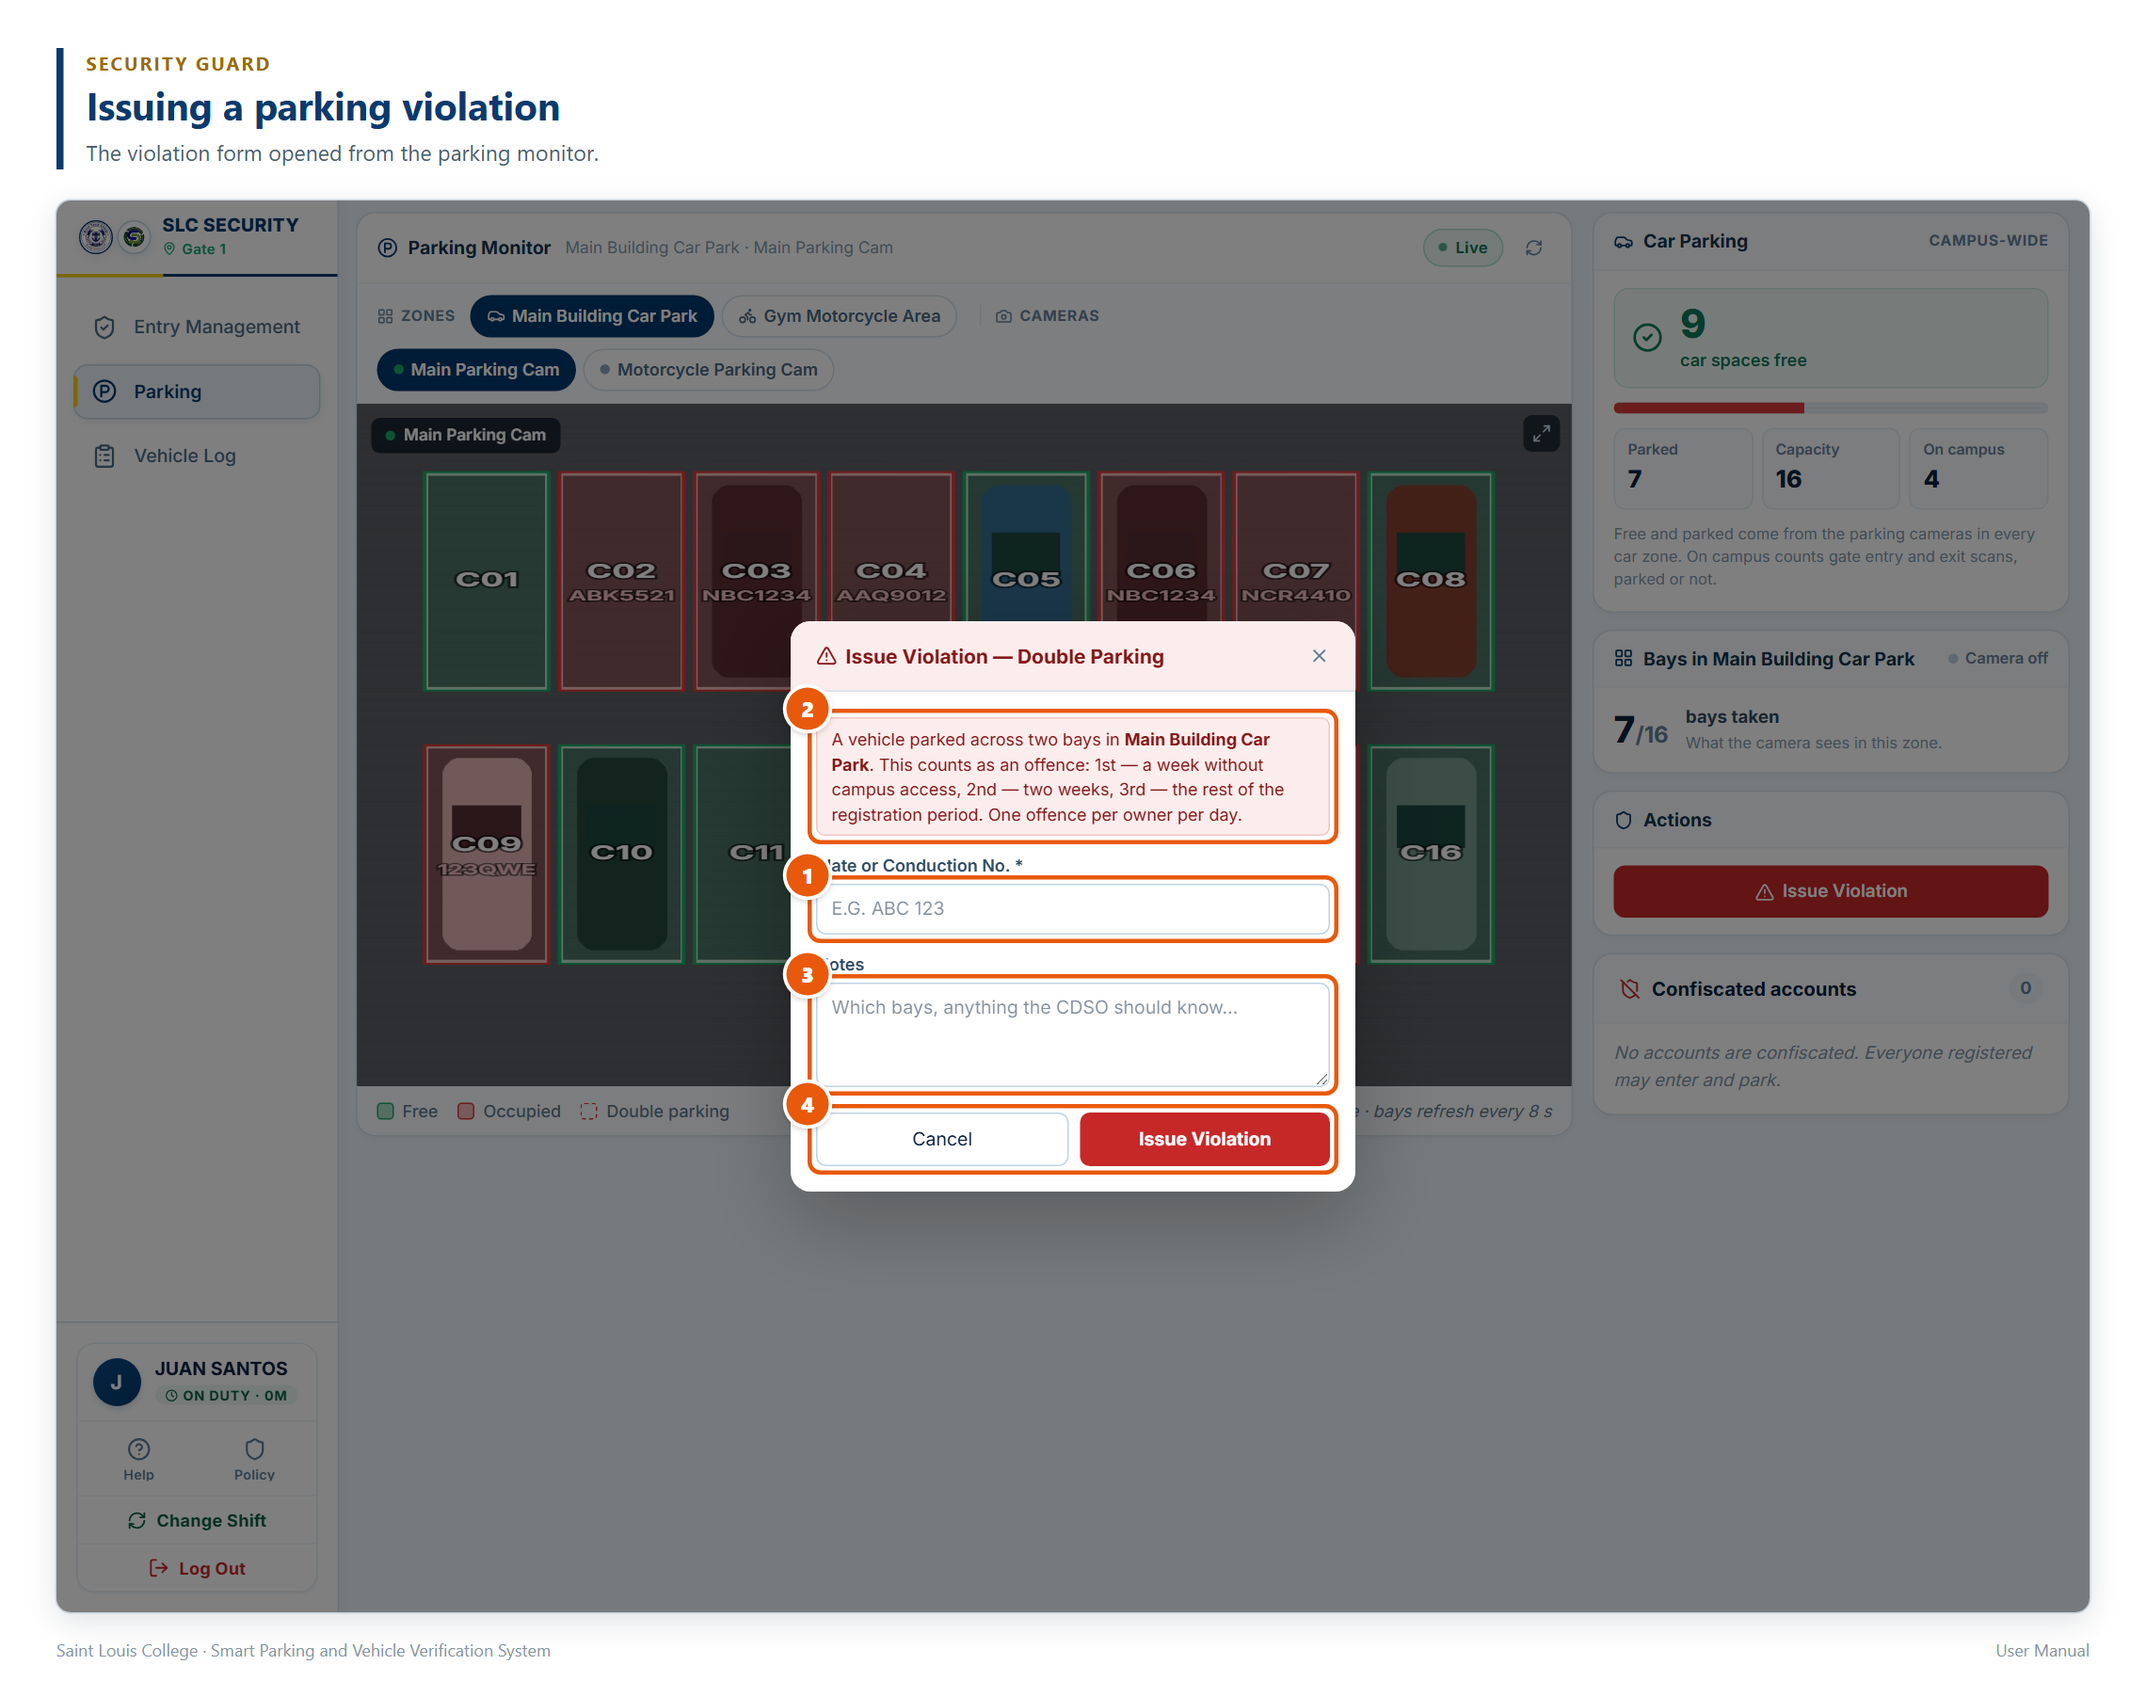
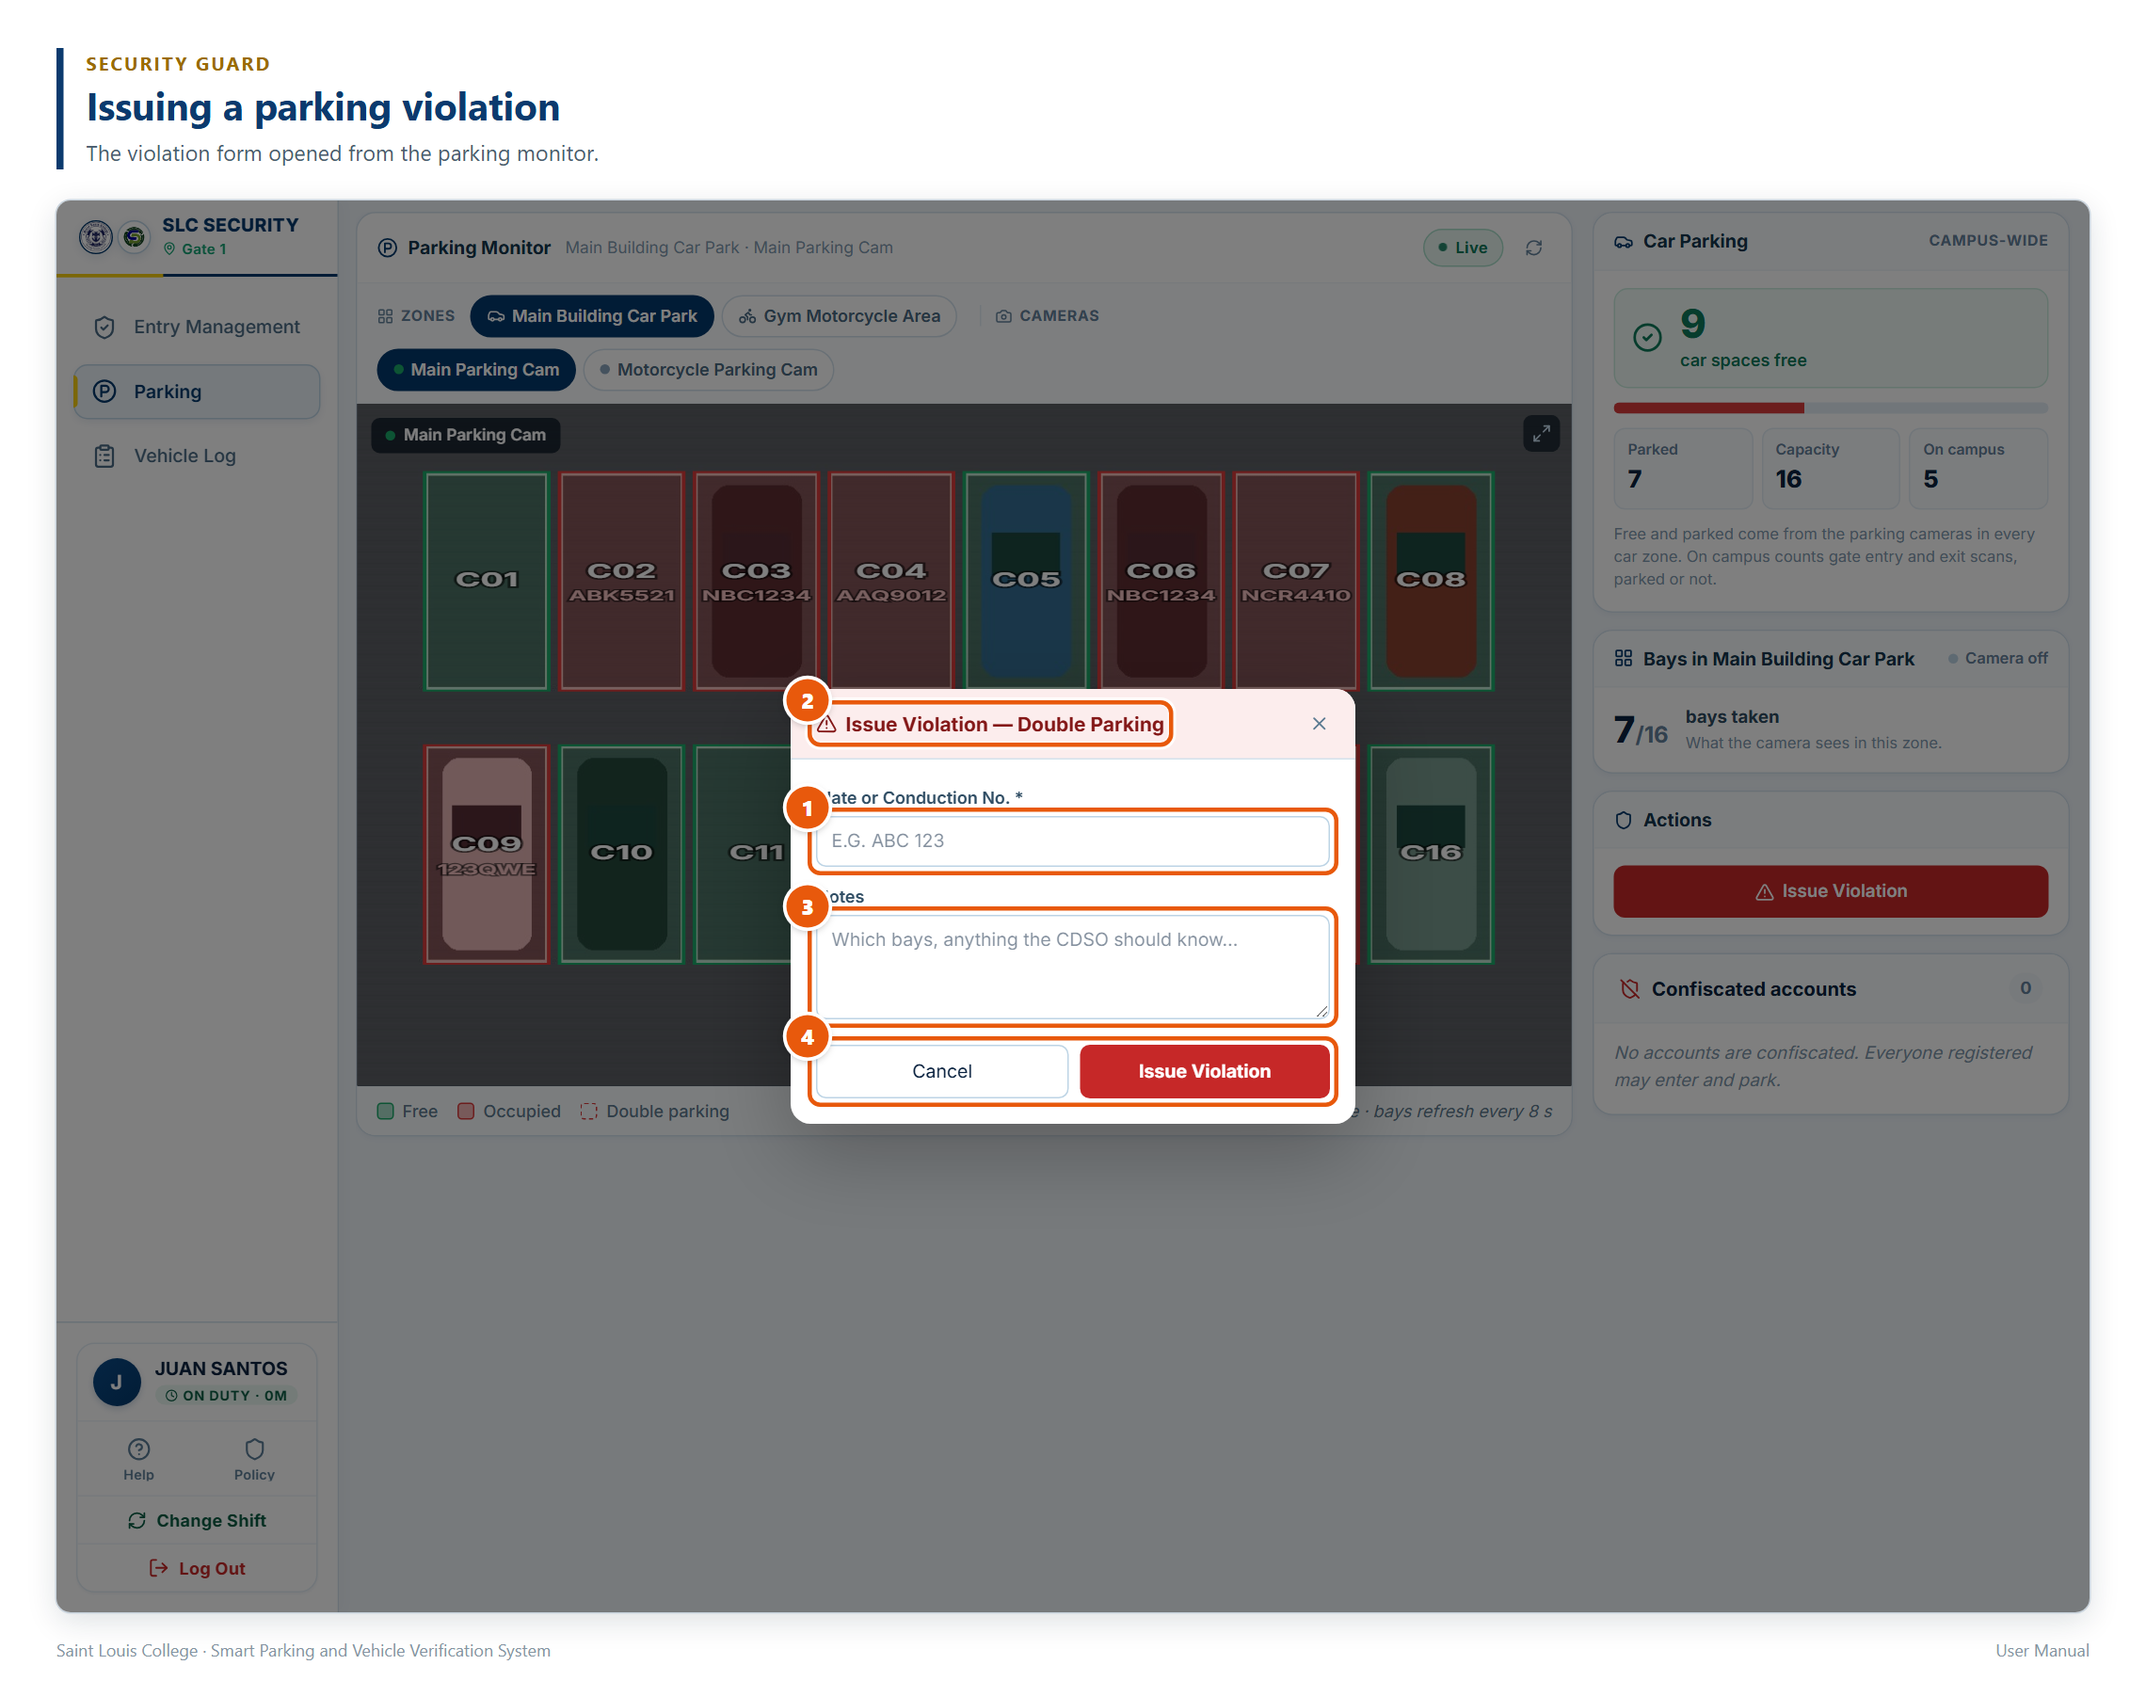
remove flavor text of double parking

Changed region(s): [[0.3425, 0.3417, 0.6539, 0.7144]]

diff --git a/frontend/src/pages/Help/helpContent.js b/frontend/src/pages/Help/helpContent.js
@@ -227,7 +227,7 @@ export const HELP_TOPICS = [
       { type: 'p', text: 'When a plate is checked, the result appears in the middle of the screen. Compare the owner and vehicle with the car in front of you, then Acknowledge — or Override Entry with a reason if it should be let in anyway.' },
       { type: 'figure', id: 'guard-plate-check-result' },
       { type: 'p', text: 'Scan QR reads more than an owner\'s pass. A visitor slip, a supplier or event pass, and the entry slip given to a vehicle with no plate all scan here. A slip opens rather than acting: you then press Record Exit or Reprint, so looking one up can never let a vehicle out by accident.' },
-      { type: 'p', text: 'Expected Today lists the visitors the CDSO scheduled for today. Check In issues the visitor pass with their name and purpose already filled in, and prints the slip; type the plate if the booking has none. When a scheduled visitor’s plate is scanned instead, the result says Expected and its button reads Check In Scheduled Visitor. Rows marked On scan are suppliers — scanning the plate is all they need. A vehicle booked for today is not turned away by the day or hours rules: the scan admits it and the result says the schedule rule was waived. A confiscated or suspended account is still refused. A booked vehicle's entry shows as Scheduled Entry — on the result, in Recent Entries and in the Vehicle Log, with the booking's SV number — and its row stays in Expected Today, marked Inside with the time it came in, until it exits. Scanning an Expected Visit card (the CDSO’s printed card with a QR) opens the same check-in; a card for another day, or for a visit already checked in or cancelled, says so instead. A scheduled visitor booked without a plate, or arriving in a different car, will not match on the scan: the result notes that visitors are still expected, and the visitor pass form has a Scheduled Visitor list to choose them from.' },
+      { type: 'p', text: 'Expected Today lists the visitors the CDSO scheduled for today. Check In issues the visitor pass with their name and purpose already filled in, and prints the slip; type the plate if the booking has none. When a scheduled visitor’s plate is scanned instead, the result says Expected and its button reads Check In Scheduled Visitor. Rows marked On scan are suppliers — scanning the plate is all they need. A vehicle booked for today is not turned away by the day or hours rules: the scan admits it and the result says the schedule rule was waived. A confiscated or suspended account is still refused. A booked vehicle’s entry shows as Scheduled Entry — on the result, in Recent Entries and in the Vehicle Log, with the booking’s SV number — and its row stays in Expected Today, marked Inside with the time it came in, until it exits. Scanning an Expected Visit card (the CDSO’s printed card with a QR) opens the same check-in; a card for another day, or for a visit already checked in or cancelled, says so instead. A scheduled visitor booked without a plate, or arriving in a different car, will not match on the scan: the result notes that visitors are still expected, and the visitor pass form has a Scheduled Visitor list to choose them from.' },
       { type: 'p', text: 'Two more panels appear on the right only when they have something in them. Unrecognized Vehicles Inside lists the no-plate vehicles still on campus, with a Slip button to reprint or exit from, and a Log Exit button. Overstaying lists vehicles past the maximum stay their entry rule allows, with how far over they are.' },
       { type: 'note', text: 'Acknowledge on an overstaying vehicle issues the Time Exceed violation there and then. They may still leave, but may not return until the confiscation ends. A vehicle already recorded today is marked as such instead.' },
       { type: 'note', text: 'If the same plate is read twice within the deduplication window (set by the CDSO), the second scan is ignored to avoid duplicate log rows.' },

diff --git a/frontend/src/pages/Help/helpFigures.js b/frontend/src/pages/Help/helpFigures.js
@@ -309,7 +309,7 @@ export const HELP_FIGURES = {
     src: img44, width: 1600, height: 1111,
     title: "Issuing a parking violation",
     caption: "The violation form opened from the parking monitor.",
-    callouts: [{"n": 1, "label": "Plate or Conduction No.", "desc": "The plate or conduction number of the double-parked vehicle. Required.", "box": {"x": 36.944, "y": 47.803, "w": 26.111, "h": 4.75}, "badge": {"x": 36.944, "y": 47.803}}, {"n": 2, "label": "Double Parking", "desc": "This form issues Double Parking only — the gate records the other offences itself. It counts toward the offence ladder, one offence per owner per day.", "box": {"x": 36.944, "y": 36.047, "w": 26.111, "h": 9.556}, "badge": {"x": 36.944, "y": 36.047}}, {"n": 3, "label": "Notes", "desc": "Optional details that help the CDSO review it.", "box": {"x": 36.944, "y": 54.753, "w": 26.111, "h": 8.65}, "badge": {"x": 36.944, "y": 54.753}}, {"n": 4, "label": "Issue Violation", "desc": "Records the violation against the vehicle’s owner and applies the penalty. If they already have one today, it says so and records nothing new. Cancel closes without saving.", "box": {"x": 36.944, "y": 64.003, "w": 26.111, "h": 4.95}, "badge": {"x": 36.944, "y": 64.003}}],
+    callouts: [{"n": 1, "label": "Plate or Conduction No.", "desc": "The plate or conduction number of the double-parked vehicle. Required.", "box": {"x": 36.944, "y": 43.025, "w": 26.111, "h": 4.75}, "badge": {"x": 36.944, "y": 43.025}}, {"n": 2, "label": "Double Parking", "desc": "This form issues Double Parking only — the gate records the other offences itself. It counts toward the offence ladder, one offence per owner per day.", "box": {"x": 36.944, "y": 35.425, "w": 17.965, "h": 3.3}, "badge": {"x": 36.944, "y": 35.425}}, {"n": 3, "label": "Notes", "desc": "Optional details that help the CDSO review it.", "box": {"x": 36.944, "y": 49.975, "w": 26.111, "h": 8.65}, "badge": {"x": 36.944, "y": 49.975}}, {"n": 4, "label": "Issue Violation", "desc": "Records the violation against the vehicle’s owner and applies the penalty. If they already have one today, it says so and records nothing new. Cancel closes without saving.", "box": {"x": 36.944, "y": 59.225, "w": 26.111, "h": 4.95}, "badge": {"x": 36.944, "y": 59.225}}],
   },
   "guard-vehicle-log": {
     src: img45, width: 1600, height: 1000,

diff --git a/frontend/src/pages/Security/SecurityParkingView.jsx b/frontend/src/pages/Security/SecurityParkingView.jsx
@@ -31,7 +31,7 @@ const CAT_OPTS = [
 // time exceed, activity while confiscated), and a camera alert is attributed
 // from its own card above. Issued through the same server path as an alert, so
 // the same rules hold: one offence per owner per day, then the ladder.
-function IssueViolationModal({ zoneId, zoneName, onClose }) {
+function IssueViolationModal({ zoneId, onClose }) {
   const [plate, setPlate]   = useState('')
   const [notes, setNotes]   = useState('')
   const [loading, setLoading] = useState(false)
@@ -66,11 +66,6 @@ function IssueViolationModal({ zoneId, zoneName, onClose }) {
           <button onClick={onClose} style={{ background: 'none', border: 'none', cursor: 'pointer', color: '#5C7B92' }}><X size={15} /></button>
         </div>
         <form onSubmit={handleSubmit} noValidate style={{ padding: 18, display: 'flex', flexDirection: 'column', gap: 12 }}>
-          <p style={{ margin: 0, fontSize: 12, color: '#841818', background: '#FCEDED', border: '1px solid #F3C4C4', borderRadius: 6, padding: '6px 10px', lineHeight: 1.45 }}>
-            A vehicle parked across two bays{zoneName ? <> in <strong>{zoneName}</strong></> : ''}. This counts as an
-            offence: 1st — a week without campus access, 2nd — two weeks, 3rd — the rest of the
-            registration period. One offence per owner per day.
-          </p>
           <div>
             <label style={{ display: 'block', fontSize: 12, fontWeight: 600, color: '#2E4C63', marginBottom: 4 }}>Plate or Conduction No. *</label>
             <input value={plate} onChange={e => setPlate(e.target.value)} placeholder="e.g. ABC 123" required
@@ -780,7 +775,6 @@ export default function SecurityParkingView() {
       {showViolation && (
         <IssueViolationModal
           zoneId={selZone?.id ?? null}
-          zoneName={selZone?.name}
           onClose={() => setShowViolation(false)}
         />
       )}
